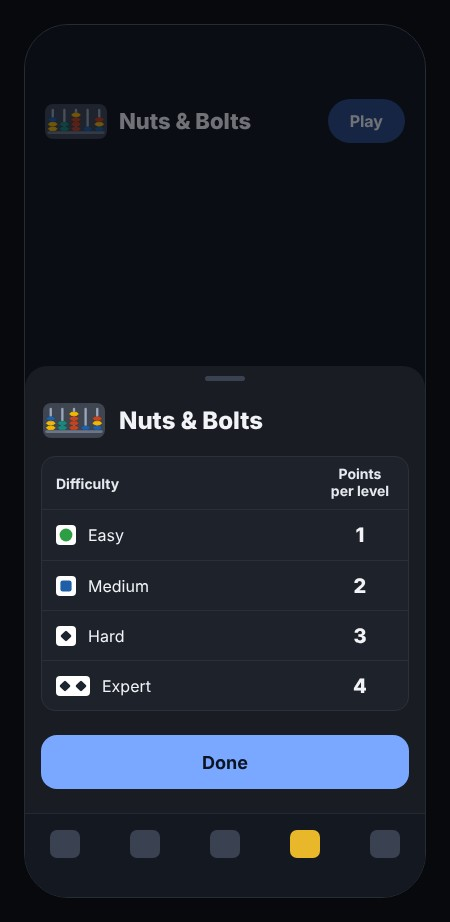
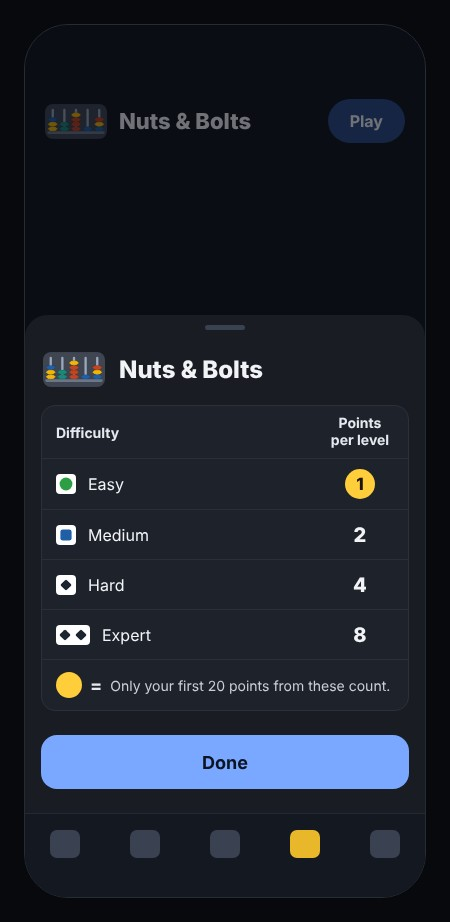
Nuts & Bolts points: 1, 2, 4, 8 a level, Easy at most 20 (Matt's option B; admin devices only)
Claude-Session: https://claude.ai/code/session_01BGm65d1GSgvdcVdSUiGC2h

diff --git a/docs/mockups/final/sheet-nuts.html b/docs/mockups/final/sheet-nuts.html
@@ -79,5 +79,5 @@ th{color:#E6E9EF!important;font-weight:700!important;font-size:14px!important}.h
               <polygon points="127,40 133.5,34.5 146.5,34.5 153,40 146.5,45.5 133.5,45.5" fill="#c24420"/>
             </g>
             <rect x="6" y="70" width="148" height="7" rx="3.5" fill="#6b7688"/>
-          </svg></span><h2>Nuts &amp; Bolts</h2></div><div class="card"><div class="ch"></div><div class="hd2"><span>Difficulty</span><span class="c">Points<br>per level</span></div><div class="rr"><span class="sh"><svg viewBox="0 0 20 20" fill="#2e9e44"><circle cx="10" cy="10" r="8"/></svg></span><span class="n">Easy</span><b>1</b></div><div class="rr"><span class="sh"><svg viewBox="0 0 20 20" fill="#1F5FA8"><rect x="3" y="3" width="14" height="14" rx="3"/></svg></span><span class="n">Medium</span><b>2</b></div><div class="rr"><span class="sh"><svg viewBox="0 0 20 20" fill="#1c2430"><rect x="4.9" y="4.9" width="10.2" height="10.2" rx="1.6" transform="rotate(45 10 10)"/></svg></span><span class="n">Hard</span><b>3</b></div><div class="rr"><span class="sh x2"><svg viewBox="0 0 34 20" fill="#1c2430"><rect x="1.9" y="4.9" width="10.2" height="10.2" rx="1.6" transform="rotate(45 7 10)"/><rect x="21.9" y="4.9" width="10.2" height="10.2" rx="1.6" transform="rotate(45 27 10)"/></svg></span><span class="n">Expert</span><b>4</b></div></div><button class="done">Done</button></div>
+          </svg></span><h2>Nuts &amp; Bolts</h2></div><div class="card"><div class="ch"></div><div class="hd2"><span>Difficulty</span><span class="c">Points<br>per level</span></div><div class="rr"><span class="sh"><svg viewBox="0 0 20 20" fill="#2e9e44"><circle cx="10" cy="10" r="8"/></svg></span><span class="n">Easy</span><b><span style="display:inline-flex;align-items:center;justify-content:center;width:30px;height:30px;border-radius:15px;background:#ffce3a;color:#1c1606;font-size:17px">1</span></b></div><div class="rr"><span class="sh"><svg viewBox="0 0 20 20" fill="#1F5FA8"><rect x="3" y="3" width="14" height="14" rx="3"/></svg></span><span class="n">Medium</span><b>2</b></div><div class="rr"><span class="sh"><svg viewBox="0 0 20 20" fill="#1c2430"><rect x="4.9" y="4.9" width="10.2" height="10.2" rx="1.6" transform="rotate(45 10 10)"/></svg></span><span class="n">Hard</span><b>4</b></div><div class="rr"><span class="sh x2"><svg viewBox="0 0 34 20" fill="#1c2430"><rect x="1.9" y="4.9" width="10.2" height="10.2" rx="1.6" transform="rotate(45 7 10)"/><rect x="21.9" y="4.9" width="10.2" height="10.2" rx="1.6" transform="rotate(45 27 10)"/></svg></span><span class="n">Expert</span><b>8</b></div><div class="capn" style="padding:12px 14px;font-size:14px;display:flex;align-items:center;gap:8px;border-top:1px solid rgba(255,255,255,.06)"><span style="display:inline-flex;width:26px;height:26px;border-radius:13px;background:#ffce3a;flex:none"></span><b style="font-size:18px;color:#E6E9EF">=</b>Only your first 20 points from these count.</div></div><button class="done">Done</button></div>
 <div class="tabs"><i></i><i></i><i></i><i class="on"></i><i></i></div></div></body></html>

diff --git a/js/puzzle-points.js b/js/puzzle-points.js
@@ -7,8 +7,9 @@
 // Easy 1; Medium 2, 1; Hard 4, 3, 2, 1; Expert 8, 5, 3, 1 (0, 1, 2, 3+ hints; a Sudoku mistake counts as a hint).
 // The help COUNT per solve is stored only from 2026-11-03 (`sd.hc` / `mu.hc`: { <level>: { h1, h2, h3 } }, h3 = 3+);
 // an older solve with help (or not proven clean) pays HALF its level, never below 1: 1, 1, 2, 4.
-// Nuts & Bolts: each level solved Easy 1, Medium 2, Hard 3, Expert 4 (levels are counted once per person by
-// players-agg's dedupeNutsBolts); a win saved before levels existed is 1. No hints exist.
+// Nuts & Bolts: each level solved Easy 1, Medium 2, Hard 4, Expert 8, Easy at most 20 points in all (Matt chose "B",
+// 2026-11-03: Easy levels never run out, so Easy is capped like the wins games' near-certain levels); levels are
+// counted once per person by players-agg's dedupeNutsBolts; a win saved before levels existed is 1. No hints exist.
 // Minesweeper: each board cleared Easy 1, Medium 3, Hard 8, Expert 20. Losses cost nothing.
 //
 // PURE and READ-TIME ONLY (THE LAW): reads one person's aggregated record (players-agg's shape), stores nothing.
@@ -19,7 +20,9 @@ export const PUZZLE_POINT_GAMES = ['sudoku', 'murdoku', 'nutsbolts', 'minesweepe
 export const HINT_STEPS = { 1: [1, 1, 1, 1], 2: [2, 1, 1, 1], 3: [4, 3, 2, 1], 4: [8, 5, 3, 1] };
 /** A helped solve from before the count was stored: half its level, never below 1. */
 export const HINT_UNKNOWN = { 1: 1, 2: 1, 3: 2, 4: 4 };
-export const LEVEL_POINTS = { nutsbolts: { 1: 1, 2: 2, 3: 3, 4: 4 }, minesweeper: { 1: 1, 2: 3, 3: 8, 4: 20 } };
+export const LEVEL_POINTS = { nutsbolts: { 1: 1, 2: 2, 3: 4, 4: 8 }, minesweeper: { 1: 1, 2: 3, 3: 8, 4: 20 } };
+/** The most points a level can add in all (Nuts & Bolts Easy: 20, the wins boards' CAP). */
+export const LEVEL_CAP = { nutsbolts: { 1: 20 } };
 export const NO_LEVEL_POINTS = 1;
 export const HELP_KEYS = ['h1', 'h2', 'h3'];
 
@@ -68,7 +71,8 @@ function levelPoints(game, id, tier) {
   let pts = 0, wins = 0;
   for (const t of [1, 2, 3, 4]) {
     if (tier != null && t !== tier) continue;
-    pts += per[t] * LEVEL_POINTS[id][t]; wins += per[t];
+    const cap = (LEVEL_CAP[id] || {})[t];
+    pts += cap != null ? Math.min(cap, per[t] * LEVEL_POINTS[id][t]) : per[t] * LEVEL_POINTS[id][t]; wins += per[t];
   }
   if (tier == null && id === 'nutsbolts') { pts += noLevel * NO_LEVEL_POINTS; wins += noLevel; }
   return { pts, wins };

diff --git a/CLAUDE.md b/CLAUDE.md
@@ -307,7 +307,7 @@ Full map, invariants and history: `js/CLAUDE.md` (auto-loaded when working there
 | `arrow-maze-time.js` / `gridlock-points.js` | Arrow Maze timer, ladder bands, points, Rush; Gridlock bands, stars, points. Network-first |
 | `word-weaver-points.js` | Word Weaver's stars (0 hints 3, 1 hint 2, 2+ 1), bands (Easy 1, Medium 501, Hard 1001, Expert 1501), per-level merge (`wwMerge`: most hints any record used), points = stars x 1/2/3/4 by band = its leaderboard number; bonus stars buy hints (`WW_PRICE` 40/60/120, `wwBalance`/`wwCollected`/`wwSpent`, `ww.sp`/`ww.by`, 2026-11-02; old free hints `ww.fu`/`ww.fl` kept); bonus squares `ww.b` (2026-11-02); the DAILY puzzle `ww.dl`/`ww.dh` (`wwDaily`, `wwDailyMerge`, `wwDailyCount`; no points, 2026-11-02) |
 | `leaderboard-rank.js` | pure rating maths + board comparators |
-| `puzzle-points.js` | Sudoku / Murdoku / Nuts & Bolts / Minesweeper points (Matt, 2026-11-03; ADMIN DEVICES ONLY, `isPuzzlePts` in `leaderboard-ui.js`): Sudoku/Murdoku Easy 1; Medium 2, 1; Hard 4, 3, 2, 1; Expert 8, 5, 3, 1 by help used (`sd.hc`/`mu.hc` `h1/h2/h3`, saved from 2026-11-03; older helped solves half: 1, 1, 2, 4); Nuts & Bolts 1/2/3/4 a level (no level 1); Minesweeper 1/3/8/20 a clear. `docs/LB-PUZZLE-POINTS-PROPOSAL.md`, `tools/test-puzzle-points.mjs` |
+| `puzzle-points.js` | Sudoku / Murdoku / Nuts & Bolts / Minesweeper points (Matt, 2026-11-03; ADMIN DEVICES ONLY, `isPuzzlePts` in `leaderboard-ui.js`): Sudoku/Murdoku Easy 1; Medium 2, 1; Hard 4, 3, 2, 1; Expert 8, 5, 3, 1 by help used (`sd.hc`/`mu.hc` `h1/h2/h3`, saved from 2026-11-03; older helped solves half: 1, 1, 2, 4); Nuts & Bolts 1/2/4/8 a level, Easy at most 20 (no level 1); Minesweeper 1/3/8/20 a clear. `docs/LB-PUZZLE-POINTS-PROPOSAL.md`, `tools/test-puzzle-points.mjs` |
 | `leaderboard2-ui.js` / `leaderboard2-boards.js` | Leaderboard v2 (Boards / Hall of Fame / Me), admin devices only until Matt approves. **The old board's numbers only (Matt, 2026-10-31: "an interface redesign, not a stats redesign")**: boards, medals and places come from `leaderboard-ui.js`'s `lb2*` exports; `tools/test-lb2-parity.mjs` proves it on real data (2026-11-03: every tab, plus each person's gold, silver and bronze; Spelling Bee by language, Matt's split; 397/397 EN and ES). Status: `docs/LEADERBOARD-V2-MORNING.md` |
 | `game-art.js` | every tile's inline SVG, keyed by hub id |
 | `difficulty-tiers.js` | READ-path mapping of difficulties onto tiers 1-4 |

diff --git a/docs/LB-PUZZLE-POINTS-PROPOSAL.md b/docs/LB-PUZZLE-POINTS-PROPOSAL.md
@@ -146,3 +146,6 @@ Everything stays admin-only and unmerged until Matt says so.
 time board kept for players). Real-data check (admin board, snapshot 2026-11-03): every total and order matches the
 tables above; player boards byte-identical to before. Not done yet: the four games' (i) sheets (Matt: mock up one at a
 time), the points toast. On release: regenerate `tools/test-lb2-parity.mjs`'s golden (these boards differ by design).
+
+2026-11-03, Matt: "B" = Nuts & Bolts 1, 2, 4, 8 a level, Easy at most 20 points in all (built, admin devices only).
+Real data: Unai 3,060, Lili 1,824, MattyIce 82 (medals unchanged).
